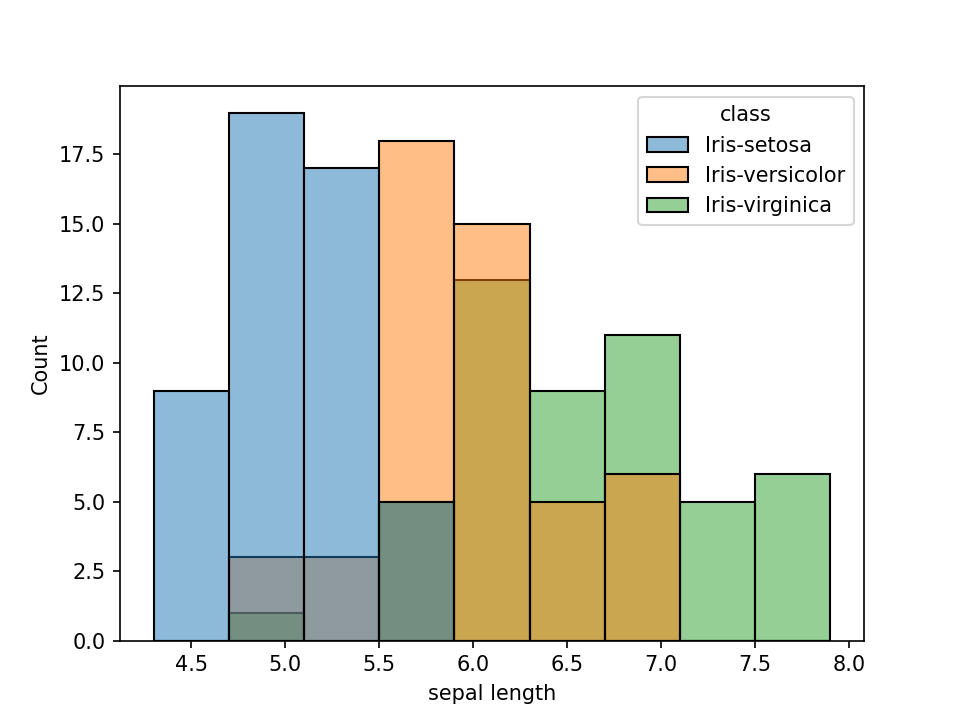
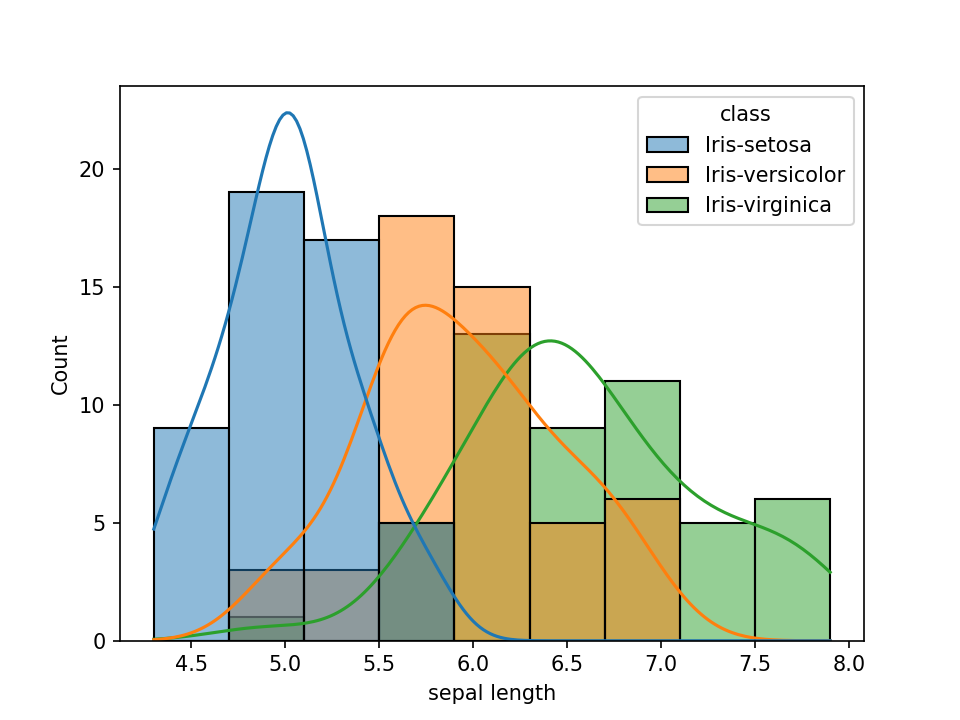
function verbose defined and used to output the progress of the program

diff --git a/Code/analysis.py b/Code/analysis.py
@@ -4,11 +4,14 @@
 import pandas as pd
 import math
 import os
+import sys
 import matplotlib.pyplot as plt
 import seaborn as sbr
 from fishermodule import *
 
 def getdata(datapath):
+
+    verbose("Reading file: ")
 
     atribute_file = os.path.join(datapath, 'atribute.names')
     data_file = os.path.join(datapath, 'iris.data')
@@ -20,6 +23,8 @@ def getdata(datapath):
     # As a header row use a Series read from the atribute_file:
     df.columns = af
 
+    verbose()
+
     # Return data frame with added header
     return df
 
@@ -27,8 +32,11 @@ def getdata(datapath):
 # The output is a text file with descriptive stats and the histogram
 # File name for the histogram and the text file are taken from the second column name
 def outsummary(subset, outpath):
+
     # get a name of the atribute from the name of the second column
     atribute = subset.columns[1]
+
+    verbose("Output summary data for "+atribute+":")
 
     # calculate the mean of this attribute for every class
     stats = subset.groupby('class').mean()
@@ -49,6 +57,8 @@ def outsummary(subset, outpath):
         # and https://pandas.pydata.org/docs/reference/api/pandas.DataFrame.to_string.html
         stats.to_string(outfile)
     
+    verbose()
+
     # The following part will output histogram, different coulous for each class
 
     # First, calculate the width of the bins
@@ -56,8 +66,9 @@ def outsummary(subset, outpath):
     #nrofbins = math.ceil(math.sqrt(subset.count()/3))
     #binw = (subset[atribute].max()-subset[atribute].min())/nrofbins
 
+    verbose("Output histogram for "+atribute+":")
     # Create histogram using seaborn library
-    sbr.histplot(subset, x=atribute, hue="class")
+    sbr.histplot(subset, x=atribute, hue="class", kde=True)
 
     # output the histogram to png file named after the attribute name
     plt.savefig(atribute+" histogram.png", dpi=150)
@@ -65,7 +76,9 @@ def outsummary(subset, outpath):
     # Added as per https://stackoverflow.com/questions/57533954/how-to-close-seaborn-plots
     # Without plt.close(), each next histogram was printed with the data from the previous ones
     plt.close()
+    verbose()
 
+    verbose("Output boxplot for "+atribute+":")
     # because histograms for different classes are overlapping, it's better to use boxplot to show the data distribution
     #https://seaborn.pydata.org/generated/seaborn.boxplot.html
     sbr.boxplot(data=subset, y=atribute, x="class")
@@ -74,15 +87,27 @@ def outsummary(subset, outpath):
     plt.savefig(atribute+" boxplot.png", dpi=150)
     plt.close()
 
+    verbose()
+
+def verbose(msg=" Done"):
+# function simplified version of the progress bar from: https://stackoverflow.com/questions/3160699/python-progress-bar
+    sys.stdout.write(msg)
+    sys.stdout.flush()
+    if msg==" Done":
+        sys.stdout.write("\n")
+
+
 # initialize folder locations
 THIS_FOLDER = os.path.dirname(os.path.abspath(__file__))
 datafolder = os.path.join(THIS_FOLDER, '../Data/')
 outfolder = os.path.join(THIS_FOLDER, '../Out/')
 
+
 # Read the data from iris.data and add the columns names from atribute.names
 iris = getdata(datafolder)
 
 # iterate through the columns of the iris dataset
+# to create histograms, boxplots and descriptive statistics summary for each variable 
 for column in iris.columns:
     # if the name of the column is not class, call the outsummary function and pass the subset of the data with only 2 column: class and 1 attribute
     if column!='class':
@@ -90,16 +115,17 @@ for column in iris.columns:
         outsummary(iris[['class', column]], outfolder)
 
 
+verbose("Output scatter plot:")
+# Create 6 scatter plots for 4 independent variables
 # Exploratory data analysis as per https://www.youtube.com/watch?v=FLuqwQgSBDw part 1, 2 and 3
 sbr.set_style("whitegrid")
 scatt = sbr.pairplot(iris, hue="class", height=3).add_legend()
 plt.savefig('scatter plot.png', dpi=150)
 plt.close()
 
+verbose()
 
+verbose("Replicate Fisher results:")
 # call the function that recreates calculations from the classic Fisher paper
 fisheranalysys(iris, outfolder)
-
-
-
-#print(df)
+verbose()

diff --git a/Code/fishermodule.py b/Code/fishermodule.py
@@ -33,15 +33,20 @@ def fisheranalysys(df, outpath):
 
     tableix = tableix.rename(columns={"sum": "Mean"})
 
-    print("\n\tMean values and standard deviation of the compound measurement per species as per Table IX\n")
-    print(tableix)
+    # change current folder to Out folder:
+    os.chdir(outpath)
+
+    with open("Fisher_tableIX.txt", "wt") as outfile:
+        outfile.write("\tMean values and standard deviation of the compound measurement per species as per Table IX\n")
+        # Output as perhttps://stackoverflow.com/questions/31247198/python-pandas-write-content-of-dataframe-into-text-file
+        # and https://pandas.pydata.org/docs/reference/api/pandas.DataFrame.to_string.html
+        tableix.to_string(outfile)
 
     # Create the histograms for the compound measurement, same as Fig1 on p188
     #https://seaborn.pydata.org/generated/seaborn.histplot.html
     sbr.histplot(compund, x="sum", hue="class", binwidth=2)
 
-    # change current folder to Out folder:
-    os.chdir(outpath)
+
     # save the histogram for the compound Fisher variable
     plt.savefig('fisherFig1.png', dpi=150)
     plt.close()

diff --git a/README.md b/README.md
@@ -1,2 +1,4 @@
 # pands-project2021
 Repository for the final project of the GMIT Programming and Scripting 2021
+
+The Fisher’s Iris data set comes from the 1936 R. A. Fisher paper “The use of multiple measurements in taxonomic problems”. In this paper, the author tackles the problem on how to distinguish between 3 different species of Iris flowers using the measurements of their 4 characteristics (Petal’s and Sepals length and width). The method used in this paper focused on finding a linear function of the four measurements that would maximize the ratio of the difference between the means to the standard deviations within species.
